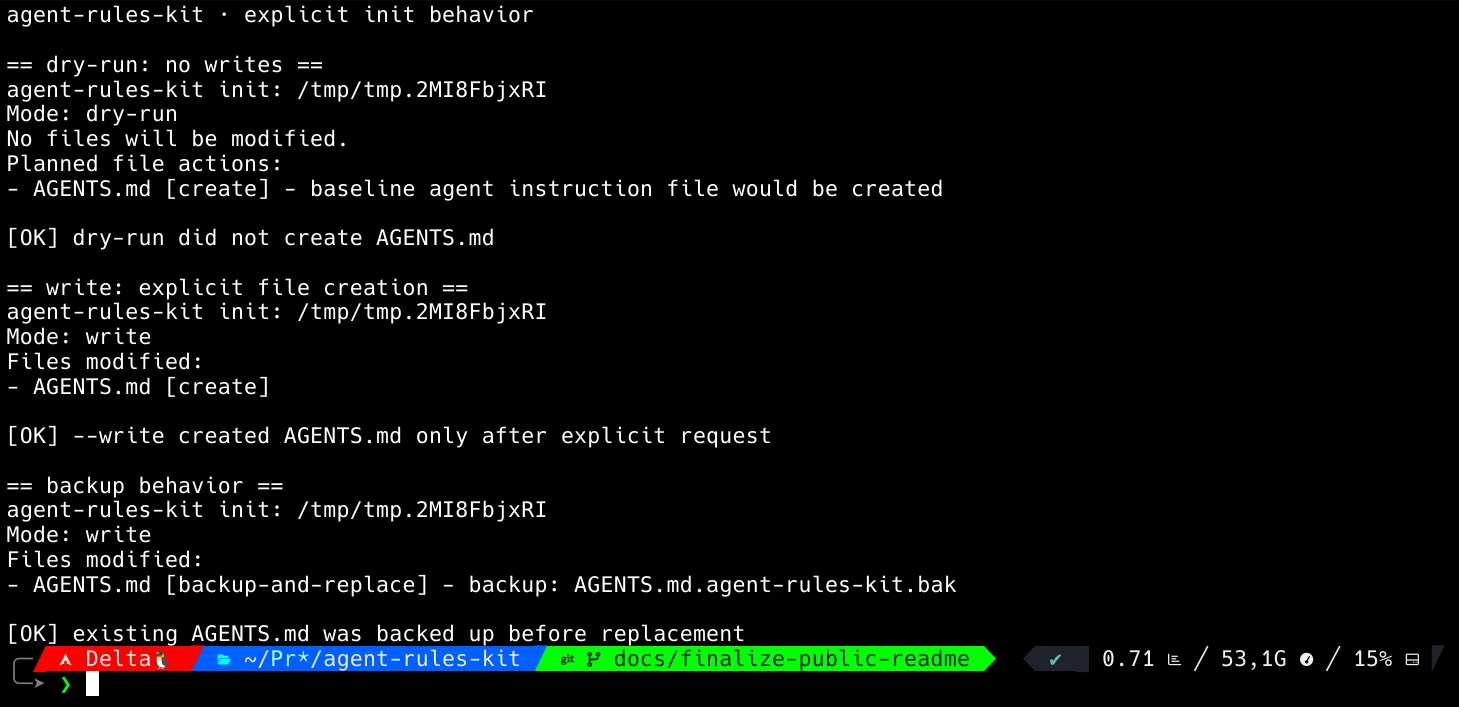
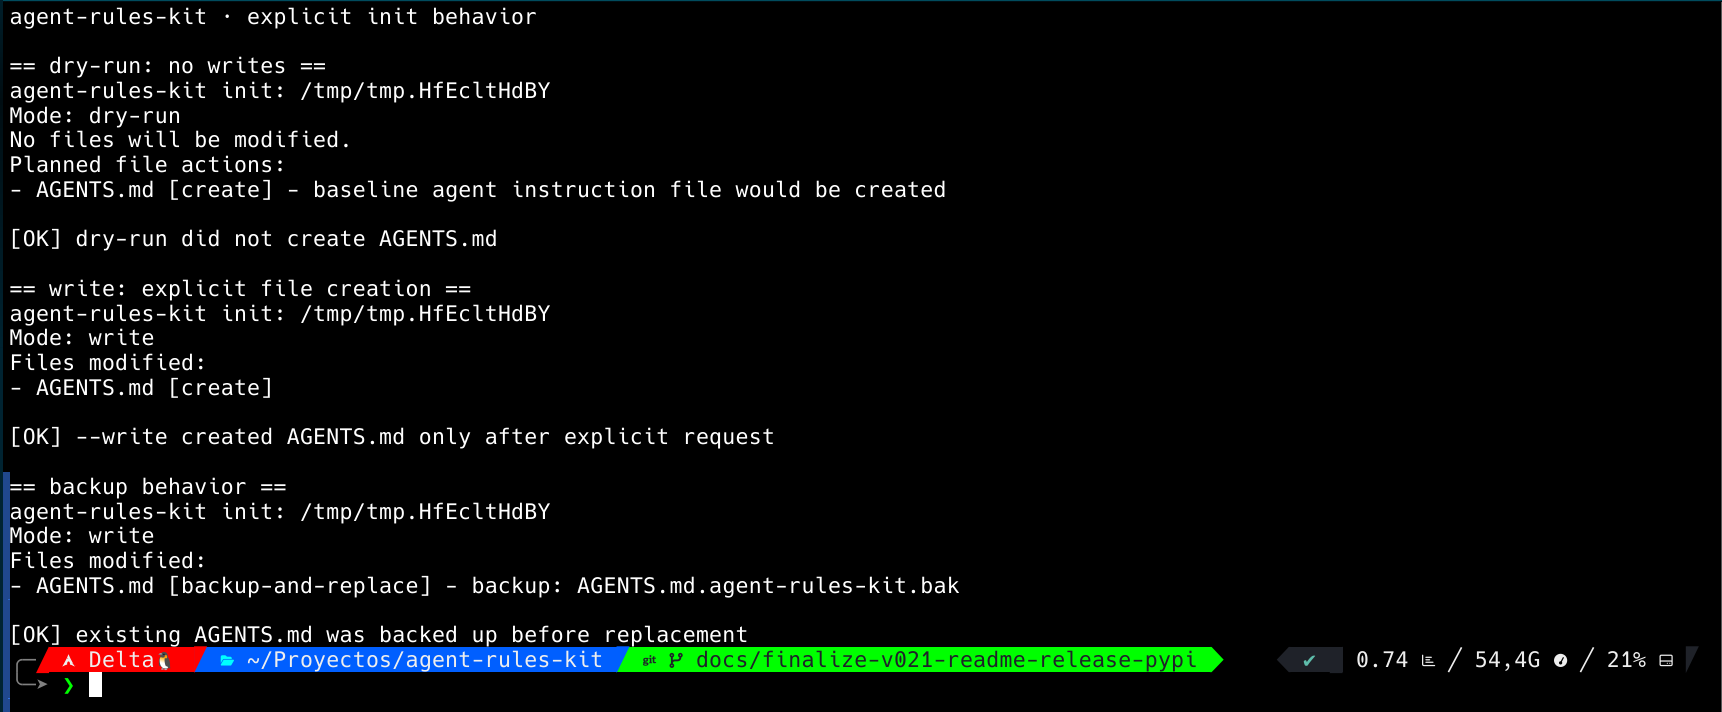
docs: finalize v0.2.1 README release path

Changed region(s): [[0.0, 0.5912, 1.0, 1.0], [0.0, 0.0, 0.6477, 0.2801], [0.0, 0.3112, 0.3701, 0.5601]]

diff --git a/README.md b/README.md
@@ -39,6 +39,8 @@
   ·
   <a href="#installation">Installation</a>
   ·
+  <a href="#release-and-pypi-publishing">Release and PyPI</a>
+  ·
   <a href="#commands">Commands</a>
   ·
   <a href="#governance-findings">Governance Findings</a>
@@ -74,6 +76,16 @@
   <img
     src="docs/screenshots/readme/agent-rules-kit-output-formats.png"
     alt="Terminal screenshot showing agent-rules-kit check output in JSON and Markdown formats"
+    width="100%"
+  />
+</p>
+
+### Governance findings and structured evidence
+
+<p align="center">
+  <img
+    src="docs/screenshots/readme/agent-rules-kit-governance-findings.png"
+    alt="Terminal screenshot showing agent-rules-kit governance findings and structured JSON evidence"
     width="100%"
   />
 </p>
@@ -123,7 +135,7 @@ The default behavior is read-only.
 
 ## What This Project Does
 
-Current `main` prepares the `v0.2.1` patch release metadata after the published `v0.2.0` baseline and post-release fixes.
+Current `main` prepares the `v0.2.1` patch release and PyPI publication path after the published `v0.2.0` baseline and post-release fixes.
 
 The implemented behavior includes:
 
@@ -192,22 +204,22 @@ A clean report means only that the implemented checks did not find a supported i
 
 ## Installation
 
-`v0.2.1` is the next GitHub Release line being prepared from current `main`.
+`v0.2.1` is the next GitHub Release and PyPI publication line being prepared from current `main`.
 
-This project is not published to PyPI yet.
+Release publication is configured to use PyPI Trusted Publishing from the GitHub Release workflow. The package must not be treated as available from PyPI until the `v0.2.1` GitHub Release has been published and the PyPI publish workflow has completed successfully.
 
 ### Normal CLI use
 
-Requirements for using the released CLI:
+Requirements for using a published CLI release:
 
 - Python 3.12 or newer;
 - a Python virtual environment;
-- the wheel artifact from the GitHub Release.
+- a published PyPI release of `agent-rules-kit`.
 
-After the `v0.2.1` GitHub Release is published, download the wheel from that release and install it in a virtual environment:
+After `v0.2.1` is published to PyPI, install it in a virtual environment:
 
     python -m venv .venv
-    .venv/bin/python -m pip install ./agent_rules_kit-0.2.1-py3-none-any.whl
+    .venv/bin/python -m pip install agent-rules-kit==0.2.1
     .venv/bin/agent-rules-kit --version
     .venv/bin/agent-rules-kit check /path/to/repository --format console
 
@@ -232,6 +244,34 @@ The development dependency group installs tools used by local checks, including 
 The source tree can also be used directly for quick CLI inspection:
 
     PYTHONPATH=src python -m agent_rules_kit.cli --help
+
+---
+
+## Release and PyPI Publishing
+
+The `v0.2.1` release path is prepared to publish through PyPI Trusted Publishing.
+
+Release publishing is handled by:
+
+    .github/workflows/publish-pypi.yml
+
+The workflow is intentionally limited:
+
+- it runs only when a GitHub Release is published;
+- it builds distributions in a separate build job;
+- it runs local checks before building distributions;
+- it verifies distributions with Twine before publishing;
+- it smoke-tests the wheel before publishing;
+- it uploads the built distributions as a short-lived workflow artifact;
+- it publishes through the `pypi` GitHub environment;
+- it grants `id-token: write` only to the publish job;
+- it does not use a static PyPI token, username, or password.
+
+Do not treat `agent-rules-kit==0.2.1` as available from PyPI until:
+
+- the `v0.2.1` GitHub Release is published from the verified release SHA;
+- the PyPI publish workflow completes successfully;
+- a clean virtual environment can install and run `agent-rules-kit==0.2.1` from PyPI.
 
 ---
 
@@ -347,7 +387,8 @@ See:
     │   ├── ISSUE_TEMPLATE/
     │   ├── pull_request_template.md
     │   └── workflows/
-    │       └── ci.yml
+    │       ├── ci.yml
+    │       └── publish-pypi.yml
     ├── docs/
     │   ├── BUILD-PLAN.md
     │   ├── OUTPUTS.md
@@ -357,6 +398,7 @@ See:
     │   ├── V0.2-GOVERNANCE-RULES-SPEC.md
     │   └── screenshots/
     │       └── readme/
+    │           ├── agent-rules-kit-governance-findings.png
     │           ├── agent-rules-kit-help-check.png
     │           ├── agent-rules-kit-init-safety.png
     │           └── agent-rules-kit-output-formats.png
@@ -424,28 +466,30 @@ The required status check for `main` is:
 Current status:
 
 - `v0.2.0` is published as a GitHub Release;
-- `main` is preparing `v0.2.1` patch release metadata from post-`v0.2.0` fixes;
+- `main` is preparing the `v0.2.1` patch release and PyPI publication path from post-`v0.2.0` fixes;
 - no stable support or API guarantee yet;
 - release tag `v0.2.0` points to the verified release SHA;
-- wheel and sdist artifacts are attached to the `v0.2.0` GitHub Release;
-- release assets were downloaded, checksum-verified, installed, and smoke-tested;
 - local CLI behavior implemented;
 - governance diagnostics, structured finding evidence, and evidence redaction are implemented;
 - CI active;
-- branch protection was documented in prior release-governance evidence and must be re-verified before the next release;
-- README distinguishes the published `v0.2.0` release from unreleased `main` state and keeps PyPI marked as not published;
+- branch protection is active with the required `local-checks / Python 3.12` status check;
+- the `pypi` GitHub environment exists for the release publishing workflow;
+- `.github/workflows/publish-pypi.yml` is prepared to publish `v0.2.1` through PyPI Trusted Publishing when the GitHub Release is published;
+- README screenshots are generated from real local CLI commands;
 - security boundaries documented;
 - threat model documented.
 
-Before claiming the next patch release or final audit-ready state, verify:
+Before publishing `v0.2.1`, verify:
 
 - all intended unreleased fixes for the patch release are merged into `main`;
 - no known release-blocking audit finding remains open;
 - local checks pass from a development virtual environment;
 - CI passes for the release SHA;
 - sdist and wheel build and install from clean temporary environments;
-- release assets can be downloaded, checksum-verified, installed, and smoke-tested;
-- output examples are generated from real commands;
+- PyPI Trusted Publishing workflow is configured for the expected PyPI project, repository, workflow file, and `pypi` environment;
+- the GitHub Release publication triggers the PyPI publish workflow successfully through the `pypi` environment;
+- the published PyPI package installs and runs from a clean virtual environment;
+- output examples and screenshots are generated from real commands;
 - README documents normal CLI use, source-tree development use, virtual environment setup, development dependencies, and local checks;
 - README does not claim unsupported maturity;
 - SECURITY.md and CHANGELOG.md are current;